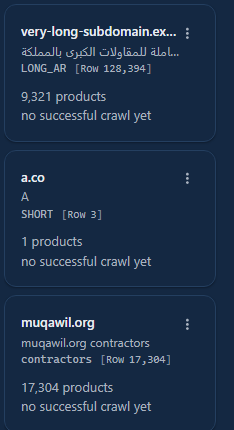
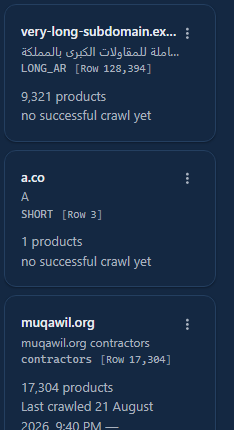
The stub says what the engine says about a dataset's last crawl
Rebased onto #255, which landed while the full suite was running and changed the
answer this branch's stub was giving.

#255 made `_dataset_rows` report a real `last_success` for a dataset -- the capture
instant, with `rows_seen` and `requests_count` both 0, which `last_successful_run`
already documents as an absence rather than a measured zero. So a crawled dataset
now reads "Last crawled ..." instead of "no successful crawl yet" over 17,304 rows.

This branch's harness row carried the literal `last_success: None` that #255
deleted. It was true of the engine for about ten minutes; keeping it would have
left the stub disagreeing with the shipped product, and every screenshot taken from
it showing a state the engine no longer produces. The row now carries the shape
`_dataset_freshness` returns, and the four screenshots are re-taken against the new
base -- the muqawil card reads "Last crawled 21 August 2026" in all of them, with
the bare three dots this branch is about.

AND A NOTE ON HOW THE SHOTS ARE TAKEN, because it bit here. `pair_shots.py` uses
`git checkout origin/main -- <paths>` to photograph the BEFORE state, and that
writes the INDEX as well as the worktree. Restoring the worktree files therefore
left main's version staged behind my own, and the hash check passed because it only
ever looked at the worktree. `git status` is what caught it -- `MM` on two files --
which is the second half of the lesson docs/LESSONS.md already records about
trusting a restore.

Changed region(s): [[0.0897, 0.9372, 0.6581, 1.0], [0.0, 0.9977, 0.0598, 1.0], [0.8974, 0.9977, 0.9274, 1.0]]

diff --git a/tools/panel_harness.py b/tools/panel_harness.py
@@ -36,12 +36,27 @@ STRESS_SOURCES = [
     {"source_key": "NOT_READY", "base_url": "https://unsupported-platform.example.com",
      "source_name": "Unsupported Platform Store", "family": "TBD-probe",
      "active": False, "implemented": False, "observations": 0, "products": 0},
+    # A GENERIC DATASET, shaped exactly as `_dataset_rows` builds one, because the
+    # rule it exercises is keyed on `kind` and no other row here has that key.
+    # Without it `test_dataset_action_opens_the_workspace_directly` could assert
+    # that EVERY card carries an actions menu and pass for ten days while
+    # `sourceMenu` gave a dataset none — which is what happened.
+    #
+    # `last_success` CARRIES A DATE, and that is #255's doing rather than a
+    # decorative choice: `_dataset_freshness` returns the capture instant with
+    # `rows_seen` and `requests_count` both 0, so a crawled dataset reads "Last
+    # crawled …" instead of "no successful crawl yet" over 17,304 rows. A literal
+    # `None` here was true of the engine for about ten minutes and would now be the
+    # stub disagreeing with the shipped product.
     {"kind": "dataset", "source_key": "contractors",
      "source_name": "muqawil.org contractors", "source_name_ar": "",
      "base_url": "https://muqawil.org", "family": "generic",
      "active": True, "implemented": True, "supports_history": False,
      "observations": 17304, "products": 17304,
-     "last_success": None, "kept_pages": 0, "kept_at": None},
+     "last_success": {"started_at": "2026-08-21T18:40:11Z",
+                      "finished_at": "2026-08-21T18:40:11Z",
+                      "rows_seen": 0, "requests_count": 0},
+     "kept_pages": 0, "kept_at": None},
 ]
 
 ACTIVE_TAB = {"url": "https://shop.example.com/products/lamp",
